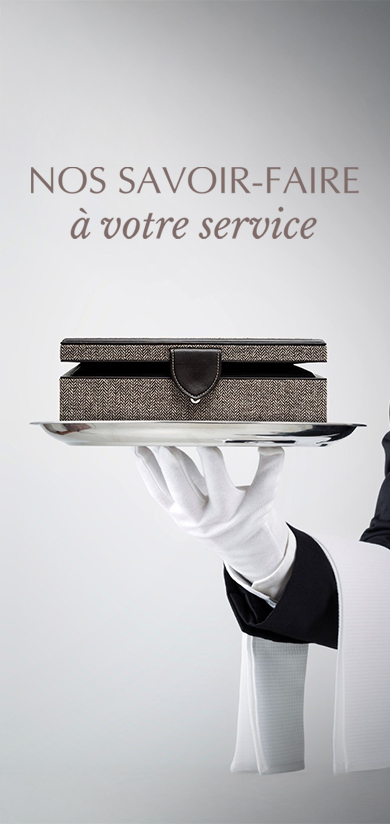
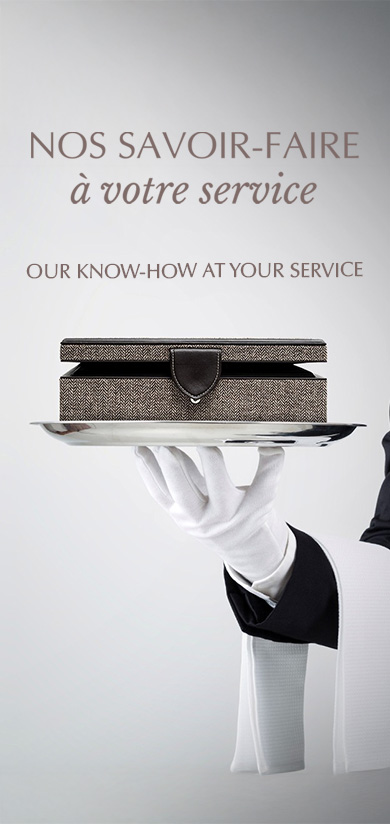
dernière corrections

Changed region(s): [[0.0615, 0.1517, 0.9231, 0.3337]]

diff --git a/vaudaux-site/src/views/HistoryView.vue b/vaudaux-site/src/views/HistoryView.vue
@@ -72,7 +72,7 @@
         <div class="history-spacer"></div>
         <section class="inverted">
             <p>{{textes[currentLang].Paragraphe12}}</p>
-            <h2>Aujourd’hui</h2>
+            <h2>{{ textes[currentLang].Aujo }}</h2>
             <img src="../assets/images-history/history12-8.png" alt="">
         </section>
     </div>
@@ -109,6 +109,7 @@ export default {
           Paragraphe9: "L’entreprise atteint 7500 m², emploie 250 personnes et produit des centaines de milliers d’écrins par an. Mais la crise horlogère de la fin des années 2000 fragilise l’activité.",
           Paragraphe10: "Philippe Belais rachète la manufacture. Fort de son expérience dans le domaine du commerce, il identifie et corrige les dysfonctionnements de l'entreprise. Il met en valeur les savoir-faire de Vaudaux et restructure l'organisation pour assurer son développement.",
           Paragraphe11: "Création d’une unité de production en Espagne, à Elche, un haut lieu du savoir-faire de la chaussure en cuir. Cette implantation permet de croiser les expertises et de bénéficier d’une main-d’oeuvre qualifiée. L'unité se spécialise dans la fabrication de petites et moyennes séries d’écrins et de maroquinerie.",
+          Aujo: "Aujourd’hui",
           Paragraphe12: "Aujourd’hui : Forts de notre expertise reconnue et de la qualité de notre savoir-faire, nous répondons à une grande diversité de demandes, tant en quantité qu’en variété de projets. Toujours tournés vers l’avenir, nous intégrons les dernières technologies pour enrichir nos méthodes de production, tout en préservant et transmettant l’héritage artisanal qui fait la réputation de Vaudaux.",
         },
         "en-US": {
@@ -124,6 +125,7 @@ export default {
           Paragraphe9: "The company expanded to 7,500 m², employing 250 people and producing hundreds of thousands of cases each year. However, the watchmaking crisis at the end of the 2000s put the business under pressure.",
           Paragraphe10: "Philippe Belais acquired the manufacture. Drawing on his experience in commerce, he identified and addressed the company’s challenges. He highlighted Vaudaux’s craftsmanship and restructured the organization to ensure its continued growth.",
           Paragraphe11: "A production unit was established in Elche, Spain, a renowned hub of leather footwear expertise. This facility allows for the exchange of skills and access to a highly skilled workforce. The unit specializes in producing small to medium series of cases and leather goods.",
+          Aujo: "Today",
           Paragraphe12: "Building on our recognized expertise and the quality of our craftsmanship, we cater to a wide range of requests, both in volume and project variety. Always looking to the future, we integrate the latest technologies to enhance our production methods while preserving and passing on the artisanal heritage that defines Vaudaux.",
         }
       },

diff --git a/vaudaux-site/src/views/HomeView.vue b/vaudaux-site/src/views/HomeView.vue
@@ -78,7 +78,7 @@ export default {
           gainerie_titre: "What is leather casing?",
           gainerie_texte: "Leather casing is the skill of covering an object with a precious material, both to protect it and enhance its beauty. Dating back to the age of knights, it was first used to make leather sheaths for weapons — giving rise to the expression “drawing a weapon.” Today, this art blends tradition with innovation to produce cases, boxes, and displays that embody luxury craftsmanship at its finest.",
           realisation: "Our Creations",
-          gainerie_know: "Know how",
+          gainerie_know: "Our Know-How",
           histoire: "Our History",
           value: "Our Values",
         },

diff --git a/vaudaux-site/src/components/Navigation.vue b/vaudaux-site/src/components/Navigation.vue
@@ -84,7 +84,7 @@ export default {
           Crea: "Our Creations",
           Presentation: "Presentation",
           value: "Our Values",
-          know: "Our Know-how",
+          know: "Our Know-How",
           hist: "Our History",
           fermer: "Close",
           legal: "Legal Mentions"

diff --git a/vaudaux-site/src/components/Footer.vue b/vaudaux-site/src/components/Footer.vue
@@ -71,7 +71,7 @@ export default {
           Crea: "Our Creations",
           Presentation: "Presentation",
           value: "Our Values",
-          know: "Our Know-how",
+          know: "Our Know-How",
           hist: "Our History",
           legal: "Legal Mentions"
         }
